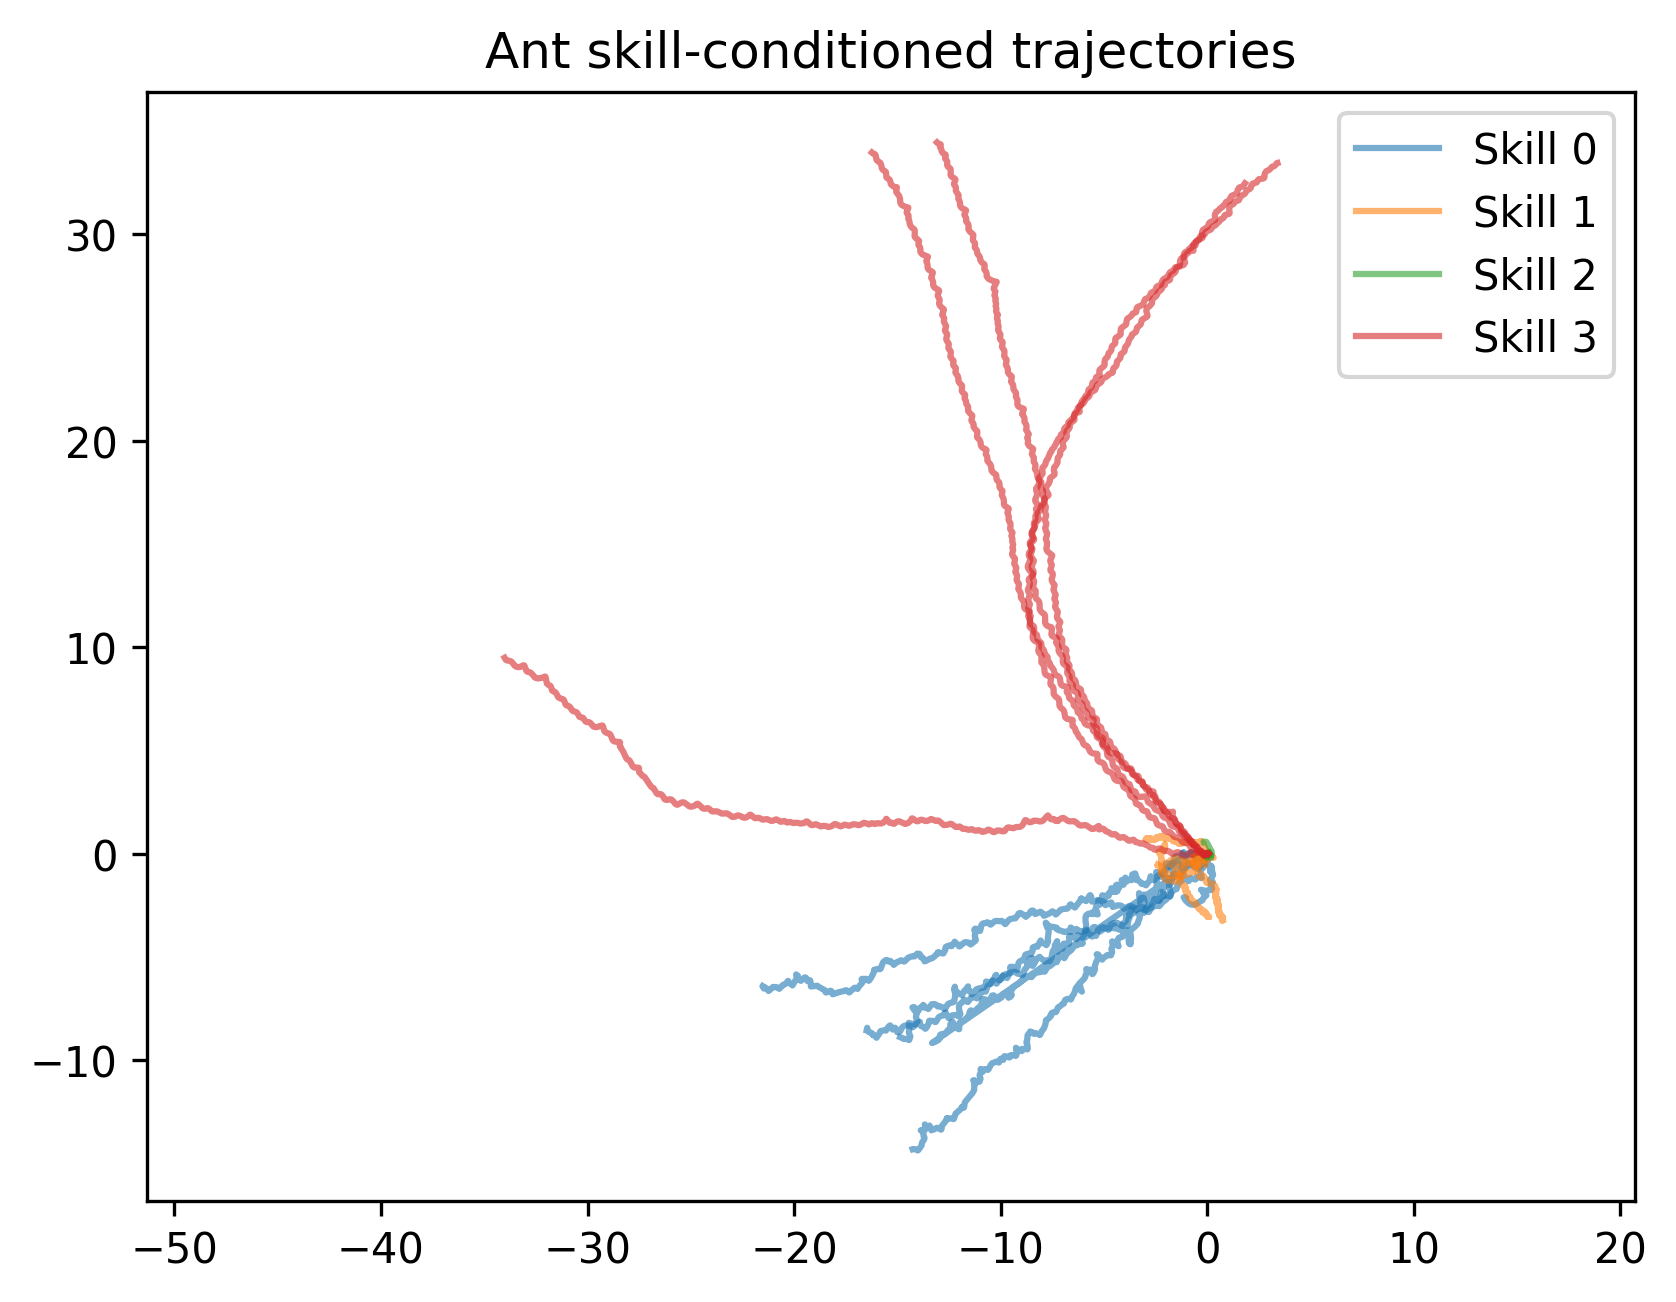
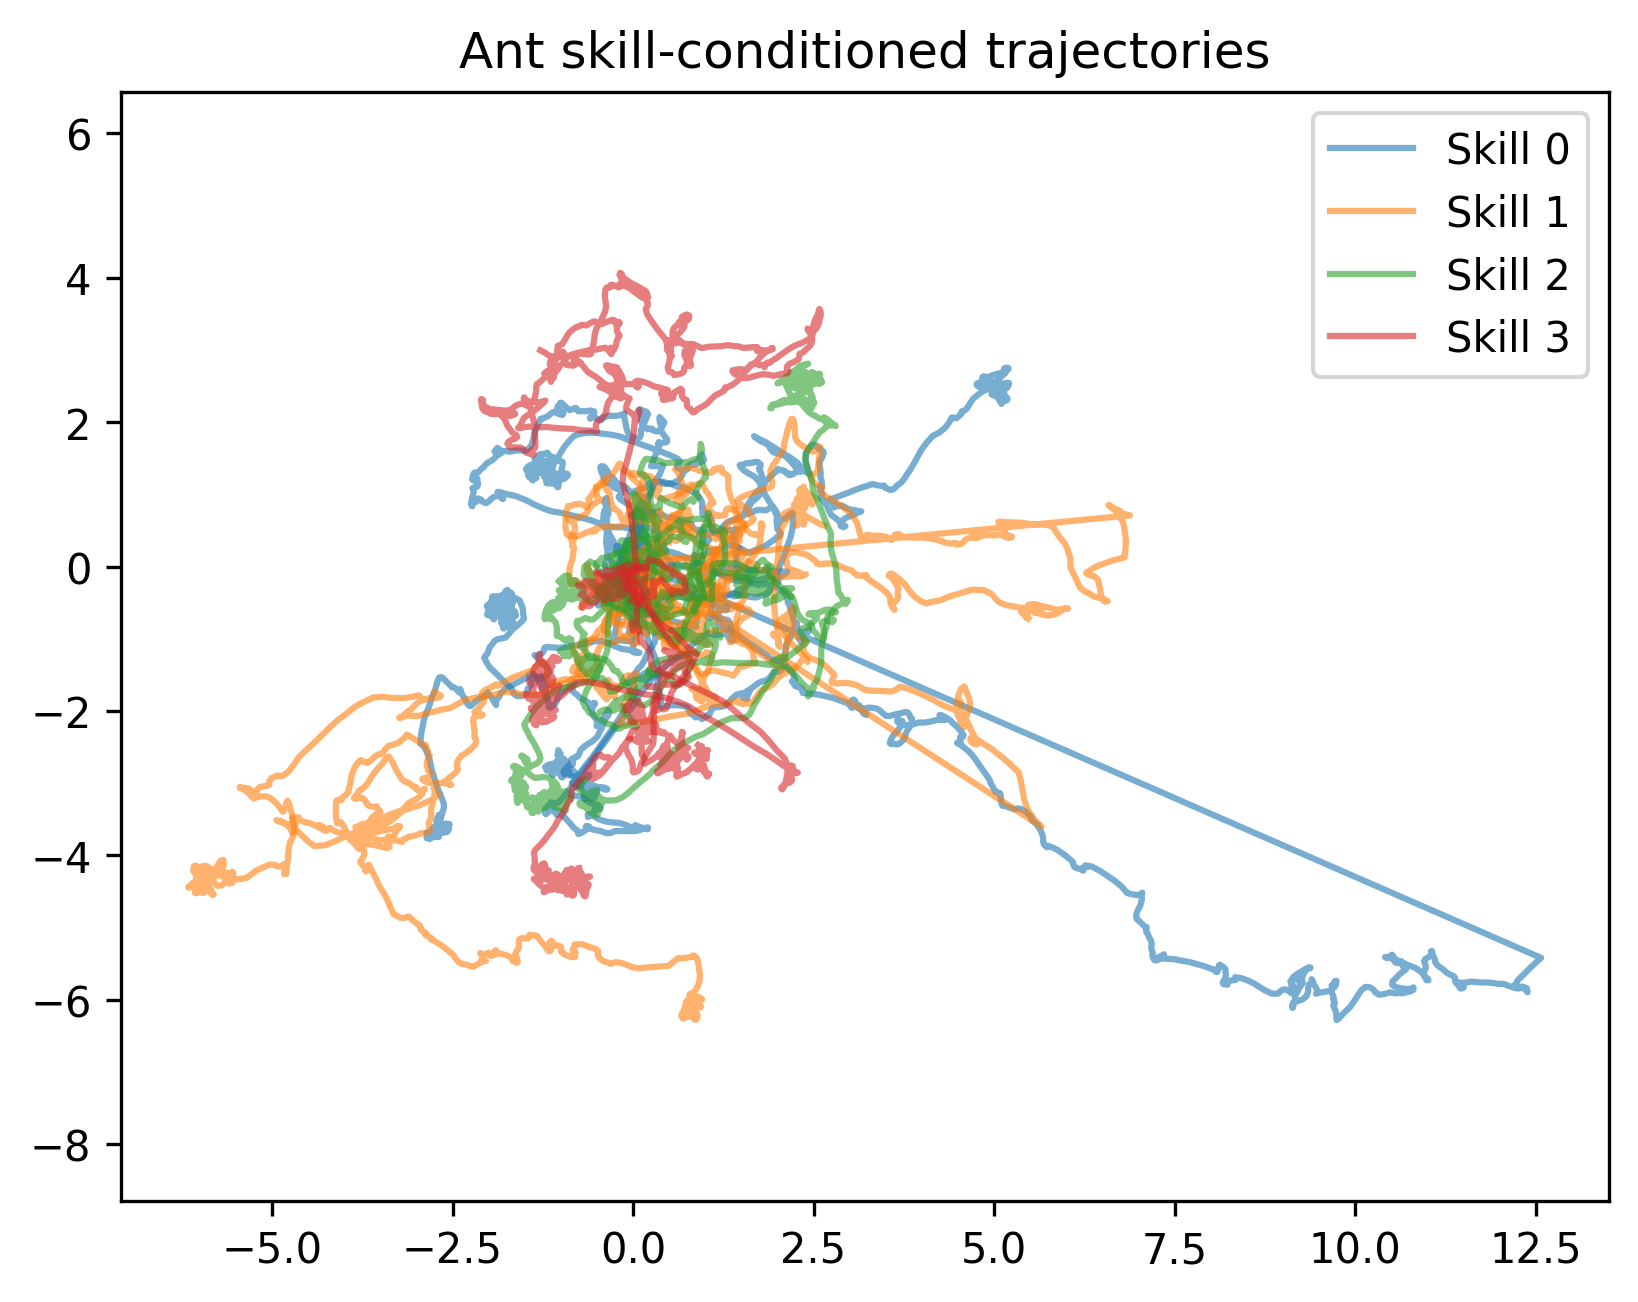
adjusted skills

diff --git a/pufferlib/pufferl.py b/pufferlib/pufferl.py
@@ -216,24 +216,32 @@ class PuffeRL:
                     )
             self.phi_dim = self.metra_args['phi_dim']
             self.num_skills = self.metra_args['num_skills']
+            self.discrete_skills = config['metra_skill_discrete']
             #eye for orthogoal skills
-            self.metra_skills = torch.eye(self.num_skills,self.phi_dim, device=self.config['device'])
 
-            #rand for random skill vects
-            #self.metra_skills = torch.randn(self.num_skills,self.phi_dim, device=self.config['device'])
-            #metra skills zero mean and unit variance to make waserstein cancel nicely
+            if self.discrete_skills:
+                self.metra_skills = torch.eye(self.num_skills,self.phi_dim, device=self.config['device'])
 
-            """self.metra_skills = self.metra_skills -self.metra_skills.mean(dim=1, keepdim=True)
-            self.metra_skills *= self.num_skills
-            self.metra_skills = self.metra_skills / (self.num_skills - 1 if self.num_skills != 1 else 1)"""
+                #rand for random skill vects
+                #self.metra_skills = torch.randn(self.num_skills,self.phi_dim, device=self.config['device'])
+                #metra skills zero mean and unit variance to make waserstein cancel nicely
+
+                self.metra_skills = self.metra_skills -self.metra_skills.mean(dim=1, keepdim=True)
+                self.metra_skills *= self.num_skills
+                self.metra_skills = self.metra_skills / (self.num_skills - 1 if self.num_skills != 1 else 1)
 
 
-            self.metra_skills = self.metra_skills - self.metra_skills.mean(dim=1, keepdim=True)
-            var = self.metra_skills.var(unbiased=False)
-            self.metra_skills = self.metra_skills / torch.sqrt(var + 1e-8)
+                """self.metra_skills = self.metra_skills - self.metra_skills.mean(dim=1, keepdim=True)
+                var = self.metra_skills.var(unbiased=False)
+                self.metra_skills = self.metra_skills / torch.sqrt(var + 1e-8)"""
+            else:
+                self.metra_skills = torch.randn(self.num_skills,self.phi_dim, device=self.config['device'])
+                self.metra_skills /= torch.norm(self.metra_skills, dim=1, keepdim=True)
 
             self.skill_ids = torch.randint(0,self.num_skills, (self.total_agents,), device=self.config['device'])
             self.epsilon = self.metra_args.get('epsilon', 1.0)
+
+
         else:
             self.metra_args = None
 
@@ -388,7 +396,6 @@ class PuffeRL:
                 delta_phi = phi[:,1:,:] - phi[:,:-1,:] #B,S-1,D
                 z = self.metra_skills[self.skill_ids] #B,skill_dim
                 z = z.unsqueeze(1).expand(-1,S-1,-1) #B,S-1,skill_dim
-                
                 r_intr = torch.zeros_like(self.rewards, device=device) #B,S
                 step_rewards = (delta_phi*z).sum(dim=-1) #B,S  Normalise to S do we need this? its not in paper
                 # normalize to zero mean, unit variance per batch
@@ -495,7 +502,7 @@ class PuffeRL:
                 z = mb_skills[:,:-1,:] #B,skill_dim
 
                 rewards= (delta_phi*z).sum(dim=-1) #B,S-1
-                constraint = 1- (delta_phi.pow(2).sum(dim=-1)) #B,S-1 TODO paper uses mean? my shapes is diff?
+                constraint = 1- (delta_phi.pow(2).sum(dim=-1)) #B,S-1 
                 constraint = torch.clamp(constraint, max = self.epsilon)#, min = 1e-8)
 
                 if config['use_rnn']:
@@ -1082,10 +1089,13 @@ def eval(env_name, args=None, vecenv=None, policy=None):
     # build skill vectors                                                                             
     d = policy.policy.phi_dim                                                                           
     num_skills = args['train']['metra_num_skills']                                                     
-    metra_skills = torch.eye(num_skills, d, device=device)                                             
-    metra_skills = metra_skills - metra_skills.mean(dim=1, keepdim=True)                               
+    metra_skills = torch.eye(num_skills, d, device=device)
+    metra_skills = metra_skills - metra_skills.mean(dim=1, keepdim=True)
+    metra_skills *= num_skills
+    metra_skills = metra_skills / (num_skills - 1 if num_skills != 1 else 1)
+    """metra_skills = metra_skills - metra_skills.mean(dim=1, keepdim=True)                               
     var = metra_skills.var(unbiased=False)                                                             
-    metra_skills = metra_skills / torch.sqrt(var + 1e-8)
+    metra_skills = metra_skills / torch.sqrt(var + 1e-8)"""
 
     state = {}
     if args['train']['use_rnn']:
@@ -1169,10 +1179,27 @@ def eval_ant(env_name,
     # build skill vectors
     d = policy.policy.phi_dim
     num_skills = args['train']['metra_num_skills']
-    metra_skills = torch.eye(num_skills, d, device=device)
-    metra_skills = metra_skills - metra_skills.mean(dim=1, keepdim=True)
-    var = metra_skills.var(unbiased=False)
-    metra_skills = metra_skills / torch.sqrt(var + 1e-8)
+    discrete_skills = False
+
+    if discrete_skills:
+        metra_skills = torch.eye(num_skills,d, device=device)
+
+        #rand for random skill vects
+        #self.metra_skills = torch.randn(self.num_skills,self.phi_dim, device=self.config['device'])
+        #metra skills zero mean and unit variance to make waserstein cancel nicely
+
+        metra_skills = metra_skills -metra_skills.mean(dim=1, keepdim=True)
+        metra_skills *= num_skills
+        metra_skills = metra_skills / (num_skills - 1 if num_skills != 1 else 1)
+
+
+        """metra_skills = metra_skills - metra_skills.mean(dim=1, keepdim=True)
+        var = metra_skills.var(unbiased=False)
+        metra_skills = metra_skills / torch.sqrt(var + 1e-8)"""
+    else:
+        metra_skills = torch.randn(num_skills,d, device=device)
+        metra_skills /= torch.norm(metra_skills, dim=1, keepdim=True)
+
 
     trajectories = defaultdict(list)
 
@@ -1245,12 +1272,16 @@ def eval_skills(env_name, steps_per_skill = 100, args=None, vecenv=None, policy=
 
     d = policy.policy.phi_dim
     num_skills = args['train']['metra_num_skills']
-    metra_skills = torch.eye(num_skills, d, device=device)      
-    """metra_skills = metra_skills - metra_skills.mean(0, keepdim=True)
-    metra_skills = metra_skills / (metra_skills.std(dim=1, keepdim=True) + 1e-8)"""
+    metra_skills = torch.eye(num_skills, d, device=device)
     metra_skills = metra_skills - metra_skills.mean(dim=1, keepdim=True)
-    var = metra_skills.var(unbiased=False)
-    metra_skills = metra_skills / torch.sqrt(var + 1e-8)
+    metra_skills *= num_skills
+    metra_skills = metra_skills / (num_skills - 1 if num_skills != 1 else 1)
+
+
+
+     #metra_skills = metra_skills - metra_skills.mean(dim=1, keepdim=True)
+    #var = metra_skills.var(unbiased=False)
+    #metra_skills = metra_skills / torch.sqrt(var + 1e-8)
  
 
     trajectories = defaultdict(list)
